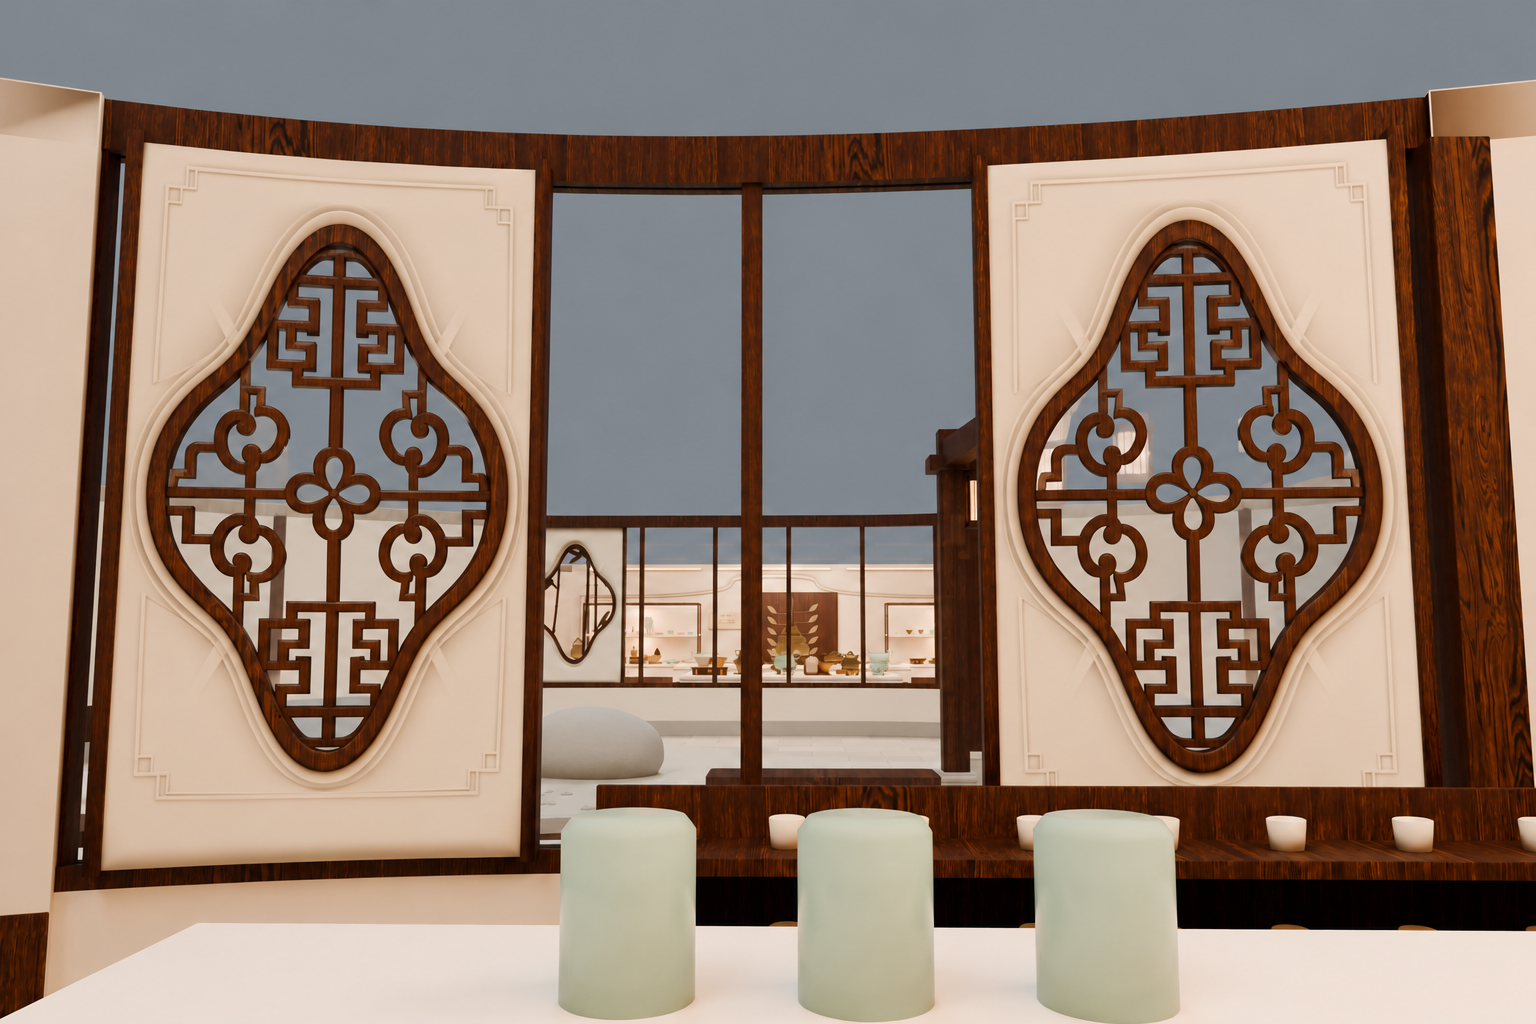
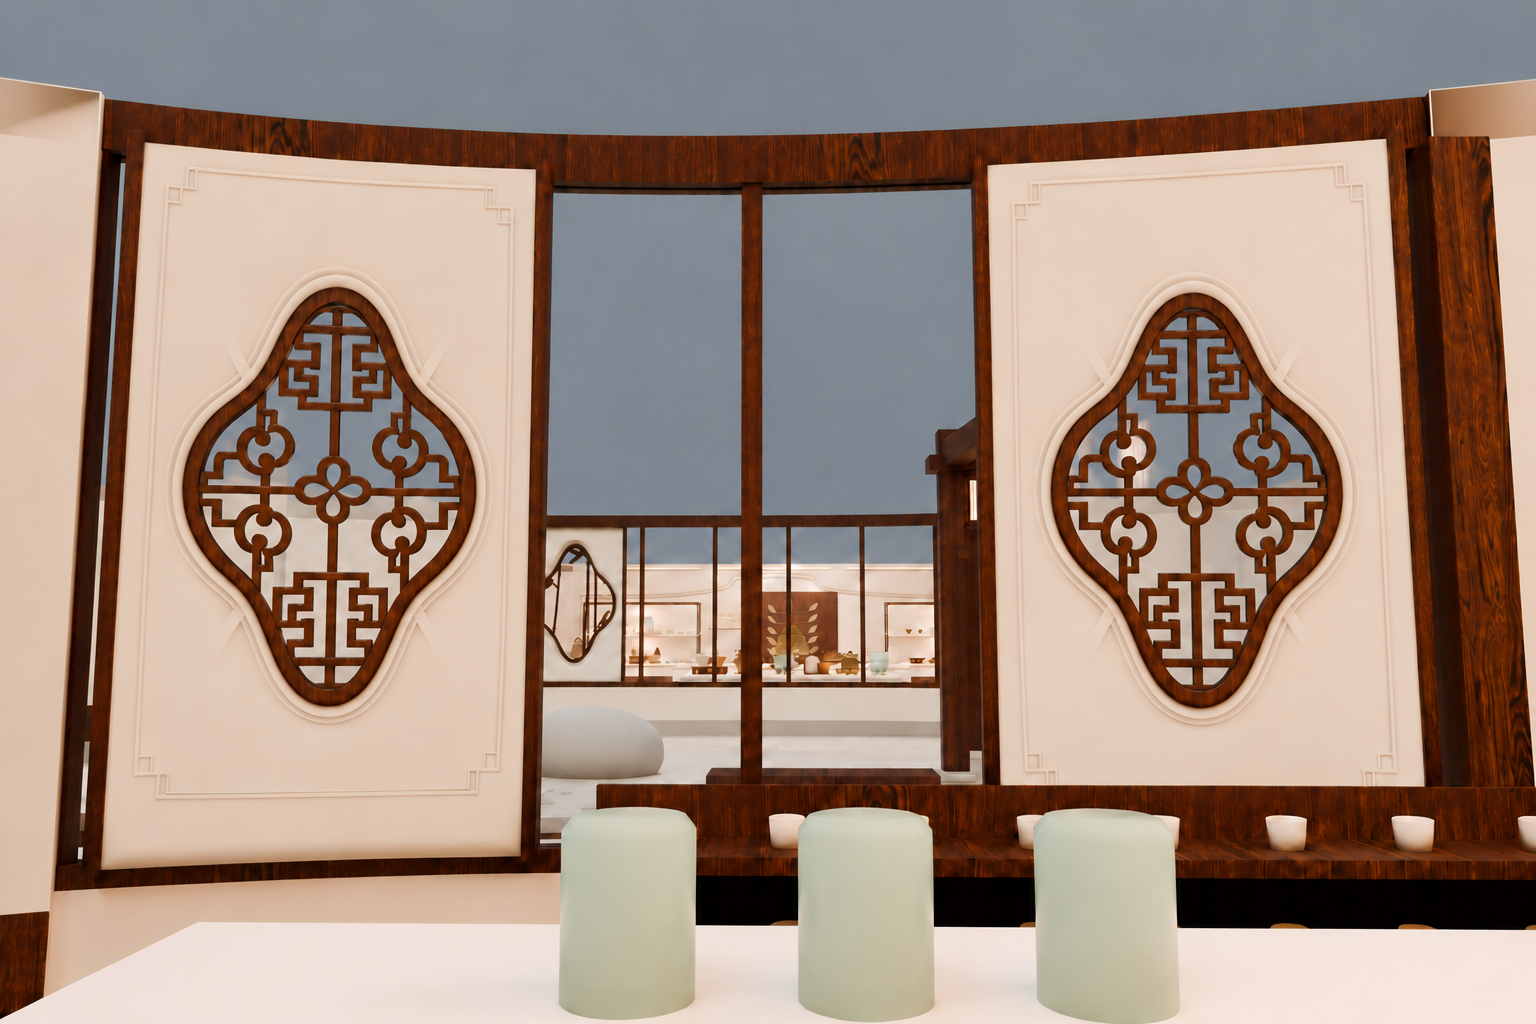
Publish r40 smaller flower window proportion review

diff --git a/index.html b/index.html
@@ -1,4 +1,4 @@
-<!doctype html><html lang="zh-CN"><head><meta charset="utf-8"><meta name="viewport" content="width=device-width,initial-scale=1"><title>莞香展馆 · 传统花窗图片审核 r39</title><style>
+<!doctype html><html lang="zh-CN"><head><meta charset="utf-8"><meta name="viewport" content="width=device-width,initial-scale=1"><title>莞香展馆 · 花窗比例缩小审核 r40</title><style>
 :root{--paper:#f1eade;--ink:#392e24;--muted:#74654f;--line:#cbbcaa;--accent:#75543b}
 *{box-sizing:border-box}html{scroll-behavior:smooth;scroll-padding-top:24px}body{margin:0;background:var(--paper);color:var(--ink);font:16px/1.8 "Microsoft YaHei","PingFang SC",sans-serif}::selection{background:#dcc19b;color:#2c2016}body{scrollbar-color:#9c8469 var(--paper)}a{color:inherit;text-underline-offset:5px}button,a{touch-action:manipulation}a:focus-visible,button:focus-visible{outline:3px solid #8d5132;outline-offset:5px}main{max-width:1280px;margin:auto;padding:36px 38px 28px}header{display:flex;justify-content:space-between;align-items:baseline;gap:20px;padding-bottom:18px;border-bottom:1px solid var(--line)}header span{color:var(--muted);font-size:14px}h1,h2,h3{font-family:"Songti SC","SimSun",serif;font-weight:500;text-wrap:balance}h1{font-size:clamp(32px,4.6vw,54px);line-height:1.25;margin:0}h2{font-size:32px;line-height:1.35;margin:0 0 16px}h3{font-size:24px;line-height:1.4;margin:0 0 10px}p{max-width:70ch;margin:12px 0}nav{display:flex;flex-wrap:wrap;gap:12px;margin:22px 0 26px}.button,button{font:inherit;line-height:1.4;border:1px solid var(--accent);padding:12px 19px;background:transparent;color:var(--ink);cursor:pointer;text-decoration:none;min-height:46px}.button:hover,button:hover{background:#e4d7c3}.primary,button[aria-pressed=true]{background:var(--ink);color:var(--paper)}.primary:hover,button[aria-pressed=true]:hover{background:#57412e}figure{margin:0}figure img{display:block;width:100%;height:auto;background:#d8cebc}figure>a{display:block}.hero{margin-top:0}figcaption{color:var(--muted);font-size:14px;padding-top:9px}section{margin-top:64px}.intro{font-size:18px;line-height:1.8;max-width:66ch}.pair{display:grid;grid-template-columns:1fr 1fr;gap:28px}.changes{display:grid;grid-template-columns:1fr 1fr;gap:32px;margin-top:30px}.changes p{margin-top:0}.plan-tools{display:flex;flex-wrap:wrap;gap:10px;margin:20px 0}.plan{background:#f4eee3;max-width:900px;margin:0 auto}.plan svg{width:100%;height:auto;display:block}.visually-off{display:none}.route-caption{color:var(--muted);margin-top:12px}.note{border-top:1px solid var(--line);padding-top:22px;margin-top:32px;color:var(--muted)}footer{border-top:1px solid var(--line);margin-top:64px;padding-top:20px;display:flex;justify-content:space-between;gap:20px;color:var(--muted);font-size:14px}.top-image{max-width:920px;margin:auto}details{margin-top:22px}summary{cursor:pointer;min-height:44px;padding:8px 0}details p{color:var(--muted)}@media(max-width:700px){main{padding:22px 18px}header{display:block}header span{display:block;margin-top:10px}h1{font-size:34px}h2{font-size:27px}.intro{font-size:16px}.pair,.changes{grid-template-columns:1fr;gap:28px}section{margin-top:44px}nav{gap:9px}.button,button{padding:11px 13px}.plan{margin:0 -8px}footer{display:block}.route-caption{font-size:14px}}@media(prefers-reduced-motion:reduce){html{scroll-behavior:auto}}
 
@@ -8,4 +8,5 @@ figure{margin-top:20px}.sheet-links{display:flex;flex-wrap:wrap;gap:12px;margin-
 .compare{display:grid;grid-template-columns:1fr 1fr;gap:22px}.compare figure{margin:0}.compare figcaption{padding:8px 0}summary{font-size:18px;padding:12px 0;min-height:48px;cursor:pointer}@media(max-width:700px){.compare{grid-template-columns:1fr}}
 
 .compare{display:grid;grid-template-columns:1fr 1fr;gap:18px}.compare figure{margin:0}.compare img{width:100%;height:auto}.compare figcaption{padding:8px 0}@media(max-width:700px){.compare{grid-template-columns:1fr}}
-.review-note{border-left:3px solid #8b6c43;padding:12px 18px;background:#f4efe5;color:#4c463d} .plan{max-width:840px;line-height:1.85}.plan li{margin:12px 0} section{scroll-margin-top:20px} a:focus-visible{outline:3px solid #815a2c;outline-offset:5px} img{height:auto} @media(max-width:600px){h1{font-size:30px}.intro{font-size:17px}}</style></head><body data-release="r39-20261019"><main><header><h1>五窗四纹，园景相映</h1><span>莞香展馆 · r39 图片审核</span></header><p class="intro">完整对称的传统花格，融入暖浅景墙与深棕木作。保留四组花形、一组八角形，咖啡双窗成对，其余各有变化。</p><p class="review-note">本轮为生成式概念审核图，依据现有模型画面制作，用于确认纹样、色彩和墙面层次。SU 模型仍为 r38；图片确认后再落实精确建模。</p><nav aria-label="审核内容"><a class="button primary" href="#view1">咖啡双窗</a><a class="button" href="#view2">寻香</a><a class="button" href="#view3">品香</a><a class="button" href="#view4">序厅</a><a class="button" href="#plan">文字方案</a></nav><section id="view1"><h2>01 · 咖啡｜成对如意回纹</h2><p>咖啡两扇花窗采用相同的回纹、如意与四瓣结心；周围浅线框成对呼应，中央玻璃看景带保留。</p><figure><a href="审核图片/01_咖啡成对如意回纹.png?v=r39-20261019" target="_blank" rel="noopener" aria-label="放大咖啡｜成对如意回纹"><img src="审核图片/01_咖啡成对如意回纹.png?v=r39-20261019" width="1536" height="1024" fetchpriority="high" alt="r39概念审核图：咖啡｜成对如意回纹"></a><figcaption>概念审核图 · 点击查看原图</figcaption></figure></section><section id="view2"><h2>02 · 寻香｜菱花竹叶</h2><p>以菱花格组织整扇窗，竹叶作为对称节点，方折墙面线饰与展厅柜墙呼应。</p><figure><a href="审核图片/02_寻香菱花竹叶.png?v=r39-20261019" target="_blank" rel="noopener" aria-label="放大寻香｜菱花竹叶"><img src="审核图片/02_寻香菱花竹叶.png?v=r39-20261019" width="1536" height="1024" loading="lazy" alt="r39概念审核图：寻香｜菱花竹叶"></a><figcaption>概念审核图 · 点击查看原图</figcaption></figure></section><section id="view3"><h2>03 · 品香｜海棠香叶</h2><p>连续海棠曲线与成对香叶结合，墙角浅饰沿用柔和曲线，与寻香的直线格形成变化。</p><figure><a href="审核图片/03_品香海棠香叶.png?v=r39-20261019" target="_blank" rel="noopener" aria-label="放大品香｜海棠香叶"><img src="审核图片/03_品香海棠香叶.png?v=r39-20261019" width="1536" height="1024" loading="lazy" alt="r39概念审核图：品香｜海棠香叶"></a><figcaption>概念审核图 · 点击查看原图</figcaption></figure></section><section id="view4"><h2>04 · 序厅｜八角锦纹</h2><p>保留竖向八角窗形，中央八向结心与回纹、如意连接；多层八角窗框强化入口景墙。</p><figure><a href="审核图片/04_序厅八角锦纹.png?v=r39-20261019" target="_blank" rel="noopener" aria-label="放大序厅｜八角锦纹"><img src="审核图片/04_序厅八角锦纹.png?v=r39-20261019" width="1536" height="1024" loading="lazy" alt="r39概念审核图：序厅｜八角锦纹"></a><figcaption>概念审核图 · 点击查看原图</figcaption></figure></section><section id="plan" class="plan"><h2>文字修改方案</h2><p>设计范围为五组花窗及其周围景墙，沿用现有布局、门洞和陈列关系。采用完整花格与统一边框体系，让不同纹样形成一组协调的园林景墙。</p><ol><li><strong>咖啡成对如意回纹：</strong>两窗同纹，回纹构成骨架，如意曲线与四瓣结心形成上下、左右对称。</li><li><strong>寻香菱花竹叶：</strong>菱花为主，成对竹叶点缀，突出清晰的几何秩序。</li><li><strong>品香海棠香叶：</strong>以海棠曲线连续组织窗格，在对应节点加入莞香叶，延续莞香主题。</li><li><strong>序厅八角锦纹：</strong>竖向八角外框配中央放射结心，回纹与如意填充上下区域。</li><li><strong>统一景墙：</strong>暖白或米灰细哑光墙面、层叠线脚、窄阴影缝与浅线饰，搭配沉稳深棕木作和现有暖光。</li></ol><p>本轮重点审核：纹样是否足够丰富、五组是否协调，以及墙面层次是否合适。确认后进入 SU 建模，落实精确对称、构件连接及与原空间的关系。</p><a class="button" href="文字方案/GX_传统对称花窗与景墙修改方案_r39.txt">查看完整文字方案</a></section><footer><span>莞香展馆 · 传统花窗与景墙 r39</span><span>2026.10.19 · 待图片审核</span></footer></main></body></html>
+.review-note{border-left:3px solid #8b6c43;padding:12px 18px;background:#f4efe5;color:#4c463d} .plan{max-width:840px;line-height:1.85}.plan li{margin:12px 0} section{scroll-margin-top:20px} a:focus-visible{outline:3px solid #815a2c;outline-offset:5px} img{height:auto} @media(max-width:600px){h1{font-size:30px}.intro{font-size:17px}}
+.switches{display:flex;gap:8px;flex-wrap:wrap;margin:14px 0}button.button{font:inherit;cursor:pointer;background:transparent}button[aria-pressed="true"]{background:#463423;color:#fff}button:focus-visible{outline:3px solid #9a713b;outline-offset:3px}</style></head><body data-release="r40-20261019"><main><header><h1>花窗收小，比例更柔和</h1><span>莞香展馆 · r40 图片审核</span></header><p class="intro">四扇花形窗按高度缩短约20%、宽度缩小约10%的方向调整，周围墙面留白增加。序厅八角窗沿用原版。</p><p class="review-note">本轮为比例调整概念图。确认的建模目标为宽度×0.9、高度×0.8、中心位置保持；图片仅作近似视觉审核。SU 模型仍为 r38。</p><nav aria-label="审核内容"><a class="button primary" href="#view1">咖啡双窗</a><a class="button" href="#view2">寻香</a><a class="button" href="#view3">品香</a><a class="button" href="#view4">序厅</a><a class="button" href="#plan">文字方案</a></nav><section id="view1"><h2>01 · 咖啡｜成对如意回纹</h2><p>咖啡两扇花窗同步缩小，保持相同如意回纹与双窗关系；外围景墙嵌板保留原尺度。</p><div class="switches" role="group" aria-label="第1张比例对照"><button type="button" class="button" data-view="view1" data-source="审核图片/01_咖啡成对如意回纹.png?v=r40-20261019" data-label="本次缩小 · r40" aria-pressed="true">本次缩小</button><button type="button" class="button" data-view="view1" data-source="比例对照/01_咖啡成对如意回纹.png?v=r40-20261019" data-label="调整前比例 · r39" aria-pressed="false">调整前比例</button></div><figure><a href="审核图片/01_咖啡成对如意回纹.png?v=r40-20261019" target="_blank" rel="noopener" aria-label="放大咖啡｜成对如意回纹"><img src="审核图片/01_咖啡成对如意回纹.png?v=r40-20261019" width="1536" height="1024" fetchpriority="high" alt="r40概念审核图：咖啡｜成对如意回纹"></a><figcaption>本次缩小 · r40 · 点击查看原图</figcaption></figure></section><section id="view2"><h2>02 · 寻香｜菱花竹叶</h2><p>寻香花窗缩短高度并略收宽度，菱花竹叶随窗框缩放，墙面上下留白增加。</p><div class="switches" role="group" aria-label="第2张比例对照"><button type="button" class="button" data-view="view2" data-source="审核图片/02_寻香菱花竹叶.png?v=r40-20261019" data-label="本次缩小 · r40" aria-pressed="true">本次缩小</button><button type="button" class="button" data-view="view2" data-source="比例对照/02_寻香菱花竹叶.png?v=r40-20261019" data-label="调整前比例 · r39" aria-pressed="false">调整前比例</button></div><figure><a href="审核图片/02_寻香菱花竹叶.png?v=r40-20261019" target="_blank" rel="noopener" aria-label="放大寻香｜菱花竹叶"><img src="审核图片/02_寻香菱花竹叶.png?v=r40-20261019" width="1536" height="1024" loading="lazy" alt="r40概念审核图：寻香｜菱花竹叶"></a><figcaption>本次缩小 · r40 · 点击查看原图</figcaption></figure></section><section id="view3"><h2>03 · 品香｜海棠香叶</h2><p>品香花窗缩小，保留海棠曲线与成对香叶，外轮廓更圆润。</p><div class="switches" role="group" aria-label="第3张比例对照"><button type="button" class="button" data-view="view3" data-source="审核图片/03_品香海棠香叶.png?v=r40-20261019" data-label="本次缩小 · r40" aria-pressed="true">本次缩小</button><button type="button" class="button" data-view="view3" data-source="比例对照/03_品香海棠香叶.png?v=r40-20261019" data-label="调整前比例 · r39" aria-pressed="false">调整前比例</button></div><figure><a href="审核图片/03_品香海棠香叶.png?v=r40-20261019" target="_blank" rel="noopener" aria-label="放大品香｜海棠香叶"><img src="审核图片/03_品香海棠香叶.png?v=r40-20261019" width="1536" height="1024" loading="lazy" alt="r40概念审核图：品香｜海棠香叶"></a><figcaption>本次缩小 · r40 · 点击查看原图</figcaption></figure></section><section id="view4"><h2>04 · 序厅｜八角锦纹</h2><p>序厅八角窗保持原比例、原纹样，本图直接沿用上一版。</p><figure><a href="审核图片/04_序厅八角锦纹.png?v=r40-20261019" target="_blank" rel="noopener" aria-label="放大序厅｜八角锦纹"><img src="审核图片/04_序厅八角锦纹.png?v=r40-20261019" width="1536" height="1024" loading="lazy" alt="r40概念审核图：序厅｜八角锦纹"></a><figcaption>概念审核图 · 点击查看原图</figcaption></figure></section><section id="plan" class="plan"><h2>本轮比例修改</h2><ol><li><strong>四扇花形窗：</strong>咖啡两扇、寻香一扇、品香一扇。宽度取上一版的90%，高度取80%，窗框与纹样同步缩放，中心位置保持。</li><li><strong>周围墙面：</strong>矩形嵌板及外侧浅线饰保留原尺度，花窗缩小后释放的区域补为同色暖浅墙面。</li><li><strong>纹样与配色：</strong>延续咖啡如意回纹、寻香菱花竹叶、品香海棠香叶和深棕木作。</li><li><strong>八角窗：</strong>序厅八角窗保持，此图与上一版一致。</li></ol><p>请重点看花形是否更圆润，以及与周围墙面的比例。图片确认后，SU 再按数值落实，并核验窗框连接、精确对称和空间关系。</p><a class="button" href="文字方案/GX_花窗比例缩小修改说明_r40.txt">查看完整修改说明</a></section><footer><span>莞香展馆 · 传统花窗与景墙 r40</span><span>2026.10.19 · 待图片审核</span></footer></main><script>document.querySelectorAll('button[data-source]').forEach(b=>b.addEventListener('click',()=>{const s=document.getElementById(b.dataset.view),im=s.querySelector('img');im.src=b.dataset.source;im.alt=b.dataset.label+'：'+s.querySelector('h2').textContent;s.querySelector('figure a').href=b.dataset.source;s.querySelector('figcaption').textContent=b.dataset.label+' · 点击查看原图';s.querySelectorAll('button').forEach(x=>x.setAttribute('aria-pressed',String(x===b)));}));</script></body></html>
